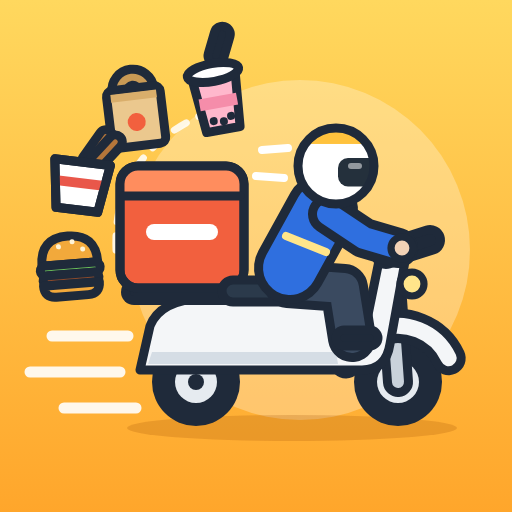
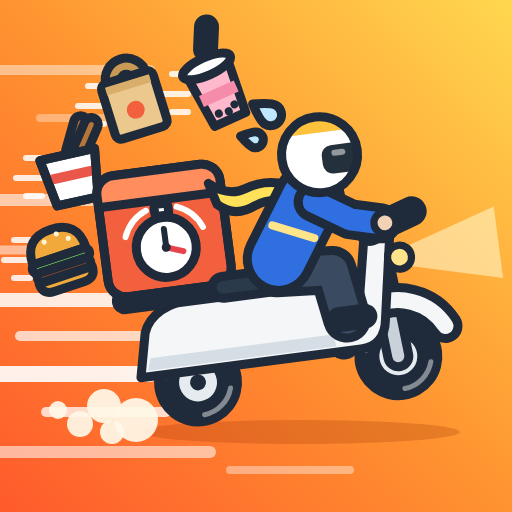
桌面图标：换成更有冲刺感、更急的 B 版
- 整辆车前倾、前轮离地，后轮扬尘，轮子带转动残影，车灯打出光束
- 背景改成橙红到亮黄的渐变，加满横向速度线
- 骑手弓身，围巾往后飘、甩出汗珠；外卖被风吹得往后歪
- 外卖箱上换成响铃的秒表，点出"抢时间"

只改了 icons/ 里的图标和画图标的代码，游戏本身没动。

Claude-Session: https://claude.ai/code/session_01HnZVufAVsaresCanp6wcfb

diff --git a/icons/icon.html b/icons/icon.html
@@ -28,75 +28,106 @@ a{display:inline-block;margin-right:12px;color:inherit}
 </main>
 <script>
 // The whole icon is drawn on a 512×512 grid and scaled to any size.
-// Everything that matters stays inside the central circle so Android's round masks don't cut it off.
+// The rider and the orders stay inside the central circle so Android's round masks don't cut them off.
 const INK='#1F2A3A',LW=9;
 
 function drawIcon(g,size){
   g.save();g.scale(size/512,size/512);
   g.lineJoin='round';g.lineCap='round';
 
-  const bg=g.createLinearGradient(0,0,0,512);bg.addColorStop(0,'#FFD85E');bg.addColorStop(1,'#FFA62B');
+  // hot background: orange-red where the rider came from, bright yellow ahead
+  const bg=g.createLinearGradient(0,512,512,0);
+  bg.addColorStop(0,'#FF5A2C');bg.addColorStop(.5,'#FF9330');bg.addColorStop(1,'#FFD84F');
   g.fillStyle=bg;g.fillRect(0,0,512,512);
-  g.fillStyle='rgba(255,255,255,.28)';circle(g,300,250,170);g.fill();
 
-  // ground shadow and speed lines
-  g.fillStyle='rgba(150,70,0,.2)';g.beginPath();g.ellipse(292,428,165,13,0,0,Math.PI*2);g.fill();
-  g.strokeStyle='rgba(255,255,255,.9)';g.lineWidth=11;
-  [[52,336,128],[30,372,120],[64,408,136]].forEach(function(s){g.beginPath();g.moveTo(s[0],s[1]);g.lineTo(s[2],s[1]);g.stroke();});
+  // speed streaks across the back half: [x, y, length, width, opacity]
+  [[0,70,150,10,.45],[40,118,120,8,.35],[0,200,96,12,.6],[0,250,70,9,.5],[0,300,170,14,.85],
+   [20,336,130,10,.7],[0,374,150,16,.9],[46,412,120,10,.75],[0,452,210,12,.55],[230,470,120,8,.4]]
+  .forEach(function(s){g.strokeStyle='rgba(255,255,255,'+s[4]+')';g.lineWidth=s[3];g.beginPath();g.moveTo(s[0],s[1]);g.lineTo(s[0]+s[2],s[1]);g.stroke();});
+
+  // ground shadow and dust kicked up by the rear wheel
+  g.fillStyle='rgba(140,40,0,.22)';g.beginPath();g.ellipse(300,432,160,12,0,0,Math.PI*2);g.fill();
+  g.fillStyle='rgba(255,248,232,.92)';
+  [[136,420,22],[104,406,17],[80,424,13],[112,432,12],[58,410,9]].forEach(function(d){circle(g,d[0],d[1],d[2]);g.fill();});
 
   trail(g);
 
-  // wheels
+  // the whole scooter leans forward like it's flooring it, front wheel lifting
+  g.save();g.translate(204,428);g.rotate(-0.13);g.translate(-196,-428);
+  scooter(g);
+  g.restore();
+
+  g.restore();
+}
+
+function scooter(g){
   wheel(g,196,382);wheel(g,398,382);
   // front fork and fender
   limb(g,[[392,300],[398,382]],12,'#C9D2DB');
   g.lineWidth=16+LW*2;g.strokeStyle=INK;g.beginPath();g.arc(398,382,56,Math.PI*1.12,Math.PI*1.86);g.stroke();
   g.lineWidth=16;g.strokeStyle='#F4F6F8';g.beginPath();g.arc(398,382,56,Math.PI*1.12,Math.PI*1.86);g.stroke();
-
-  // scooter body: rear panel, floorboard and steering column in one piece
+  // body: rear panel, floorboard and steering column in one piece
   shape(g,function(){
     g.moveTo(140,370);g.lineTo(150,326);g.quadraticCurveTo(160,300,204,298);g.lineTo(318,298);
     g.quadraticCurveTo(340,300,342,324);g.lineTo(344,344);g.lineTo(362,344);g.lineTo(380,256);g.lineTo(406,256);
     g.lineTo(390,344);g.quadraticCurveTo(386,370,362,370);g.closePath();
   },'#F4F6F8');
   g.fillStyle='#D5DDE5';g.beginPath();g.moveTo(152,352);g.lineTo(336,352);g.lineTo(338,364);g.lineTo(148,364);g.closePath();g.fill();
-  // headlight and handlebar
+  // headlight with its beam, handlebar
+  g.fillStyle='rgba(255,250,210,.55)';g.beginPath();g.moveTo(414,276);g.lineTo(512,246);g.lineTo(512,318);g.lineTo(414,292);g.closePath();g.fill();
   g.fillStyle='#FFE58A';circle(g,412,284,12);g.fill();g.lineWidth=LW*.8;g.strokeStyle=INK;g.stroke();
   limb(g,[[386,254],[430,240]],12,INK);
 
-  // delivery box on the rear rack
+  // delivery box with a ringing stopwatch on it
   limb(g,[[134,292],[248,292]],8,INK);
   shape(g,function(){rr(g,120,166,124,122,18);},'#F2603E');
   g.fillStyle='#FF8D5E';g.save();rr(g,120,166,124,122,18);g.clip();g.fillRect(120,166,124,30);g.restore();
   g.lineWidth=LW;g.strokeStyle=INK;rr(g,120,166,124,122,18);g.stroke();
   g.beginPath();g.moveTo(124,196);g.lineTo(240,196);g.stroke();
-  g.fillStyle='#FFFFFF';rr(g,146,224,72,16,8);g.fill();
+  stopwatch(g,182,244,30);
   // seat
   shape(g,function(){rr(g,222,280,104,22,11);},'#2B3A4B');
 
-  // rider: leg, body, arm, helmet
+  // rider: crouched low over the bars, scarf flying back
   limb(g,[[288,284],[344,288],[352,338]],30,'#3A4A60');
   shape(g,function(){rr(g,336,330,42,16,8);},INK);
-  limb(g,[[290,268],[322,210]],54,'#2F6FDF');
-  g.strokeStyle='#FFE58A';g.lineWidth=8;g.beginPath();g.moveTo(286,236);g.lineTo(326,252);g.stroke();
-  limb(g,[[328,214],[364,238],[398,248]],22,'#2F6FDF');
+  shape(g,function(){
+    g.moveTo(326,206);g.quadraticCurveTo(296,186,268,196);g.quadraticCurveTo(250,202,232,186);
+    g.lineTo(238,208);g.quadraticCurveTo(254,224,276,214);g.quadraticCurveTo(298,206,320,222);g.closePath();
+  },'#FFE15A');
+  limb(g,[[292,270],[330,214]],54,'#2F6FDF');
+  g.strokeStyle='#FFE58A';g.lineWidth=8;g.beginPath();g.moveTo(290,236);g.lineTo(330,254);g.stroke();
+  limb(g,[[334,218],[368,240],[398,248]],22,'#2F6FDF');
   g.fillStyle='#F2D2B6';circle(g,402,248,11);g.fill();g.lineWidth=LW*.8;g.strokeStyle=INK;g.stroke();
-  helmet(g,336,166,38);
-  // effort lines behind the helmet
-  g.strokeStyle='#FFFFFF';g.lineWidth=8;
-  [[262,150,288,148],[256,176,284,178]].forEach(function(s){g.beginPath();g.moveTo(s[0],s[1]);g.lineTo(s[2],s[3]);g.stroke();});
+  helmet(g,346,172,38);
+  // sweat flying off the helmet
+  drop(g,300,124,-.9,11);drop(g,282,148,-1.2,8);
+}
 
+function stopwatch(g,x,y,r){
+  shape(g,function(){rr(g,x-7,y-r-14,14,12,3);},'#FFFFFF');
+  shape(g,function(){circle(g,x,y,r);},'#FFFFFF');
+  g.strokeStyle=INK;g.lineWidth=6;
+  g.beginPath();g.moveTo(x,y);g.lineTo(x,y-r*.62);g.stroke();
+  g.strokeStyle='#E8434A';g.beginPath();g.moveTo(x,y);g.lineTo(x+r*.55,y+r*.2);g.stroke();
+  g.fillStyle=INK;circle(g,x,y,4.5);g.fill();
+  // ringing marks on both shoulders
+  g.strokeStyle='#FFFFFF';g.lineWidth=6;
+  [[1.12,1.38],[1.62,1.88]].forEach(function(a){g.beginPath();g.arc(x,y,r+12,Math.PI*a[0],Math.PI*a[1]);g.stroke();});
+}
+function drop(g,x,y,rot,s){
+  g.save();g.translate(x,y);g.rotate(rot);
+  shape(g,function(){g.moveTo(0,-s*1.6);g.quadraticCurveTo(s,-s*.2,s,s*.3);g.arc(0,s*.3,s,0,Math.PI);g.quadraticCurveTo(-s,-s*.2,0,-s*1.6);},'#BFE8FF');
   g.restore();
 }
 
-// Takeout orders flying after the rider
+// Orders blown back by the wind, each with its own little speed streaks
 function trail(g){
-  g.strokeStyle='rgba(255,255,255,.85)';g.lineWidth=7;g.setLineDash([14,14]);
-  g.beginPath();g.moveTo(116,250);g.quadraticCurveTo(112,140,232,104);g.stroke();g.setLineDash([]);
-  item(g,218,100,-.18,tea);
-  item(g,136,116,-.12,bag);
-  item(g,80,184,.12,noodles);
-  item(g,70,266,-.08,burger);
+  [[218,92,-.42,tea],[134,104,-.3,bag],[72,176,-.22,noodles],[60,258,-.32,burger]].forEach(function(t){
+    g.strokeStyle='rgba(255,255,255,.85)';g.lineWidth=6;
+    [-18,2,20].forEach(function(o,i){g.beginPath();g.moveTo(t[0]-46-(i%2)*10,t[1]+o);g.lineTo(t[0]-30,t[1]+o);g.stroke();});
+    item(g,t[0],t[1],t[2],t[3]);
+  });
 }
 function item(g,x,y,rot,draw){g.save();g.translate(x,y);g.rotate(rot);draw(g);g.restore();}
 function tea(g){
@@ -127,9 +158,12 @@ function burger(g){
   g.fillStyle='#FFF4D6';[[-10,-20],[4,-24],[14,-16]].forEach(function(p){circle(g,p[0],p[1],2.5);g.fill();});
 }
 
+// Spinning wheel: tyre, blurred streaks, rim
 function wheel(g,x,y){
   g.fillStyle=INK;circle(g,x,y,44);g.fill();
-  g.fillStyle='#E6EBF0';circle(g,x,y,21);g.fill();
+  g.strokeStyle='rgba(255,255,255,.45)';g.lineWidth=5;
+  [0,1].forEach(function(i){g.beginPath();g.arc(x,y,33,i*Math.PI+.3,i*Math.PI+1.5);g.stroke();});
+  g.fillStyle='#E6EBF0';circle(g,x,y,19);g.fill();
   g.fillStyle=INK;circle(g,x,y,8);g.fill();
 }
 function helmet(g,x,y,r){
